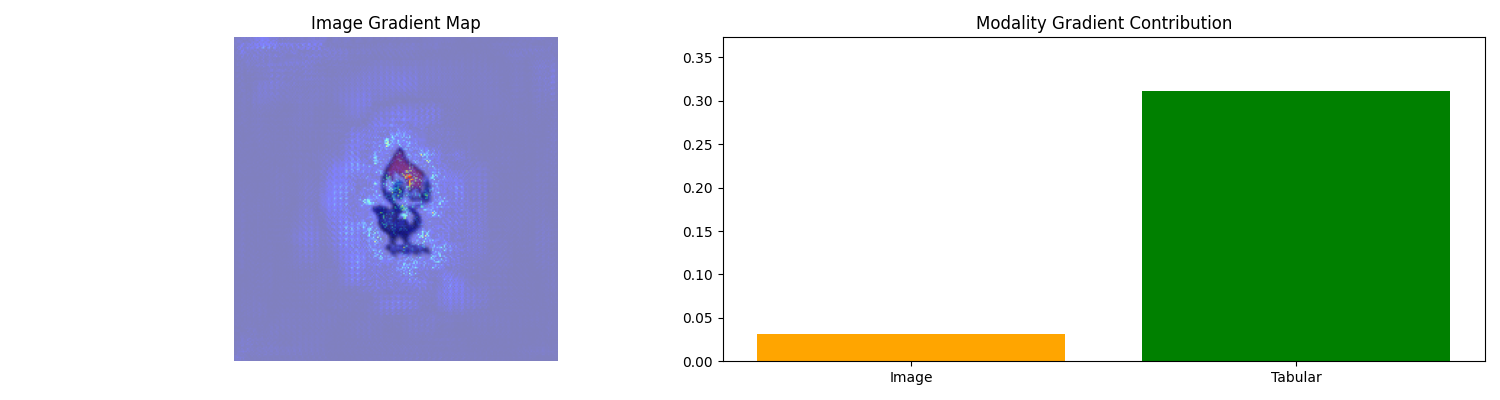
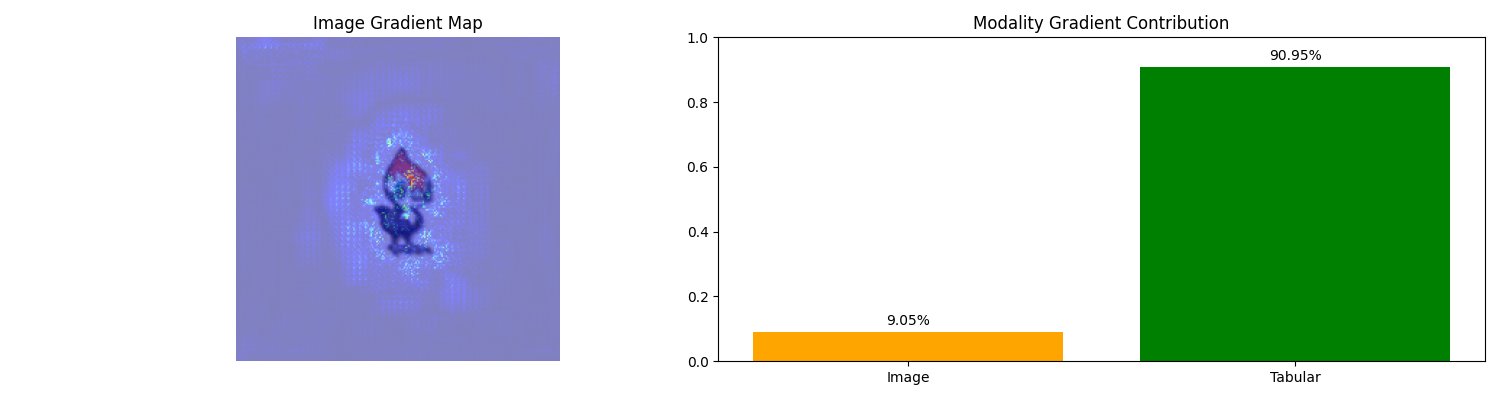
hue shift per thing quick

diff --git a/hue_shift_analysis.py b/hue_shift_analysis.py
@@ -252,16 +252,74 @@ def plot_hue_shift_results(results, plot_grayscal_acc=False):
     
     plt.tight_layout()
     plt.savefig(f'hue_shift_analysis_grayscale_{plot_grayscal_acc}.png', dpi=300, bbox_inches='tight')
+
+from data import deencode_types
+
+def show_prediction_under_hue_shift(df, sample_idx=0, hue_shift_deg=120, device=None):
+    """
+    Show prediction for a single Pokémon before and after hue shift.
+    Useful for checking if color changes prediction (e.g. Bulbasaur turns Fire).
+    """
+    if device is None:
+        device = get_device()
     
+    # Load model
+    cnn, classifier = load_model(path=MODEL_PATH, device=device)
+    cnn.eval()
+    classifier.eval()
+
+    # Load transforms
+    original_transform = hue_shift_transform(0)
+    shifted_transform = hue_shift_transform(hue_shift_deg)
+    
+    # Get images and labels
+    original_img, original_stats, original_label = get_sample_by_idx(df, sample_idx, original_transform)
+    shifted_img, shifted_stats, shifted_label = get_sample_by_idx(df, sample_idx, shifted_transform)
+
+    # Prepare images for display
+    def denorm(tensor_img):
+        mean = torch.tensor([0.485, 0.456, 0.406]).view(3,1,1)
+        std = torch.tensor([0.229, 0.224, 0.225]).view(3,1,1)
+        return torch.clamp(tensor_img * std + mean, 0, 1)
+
+    def predict(img_tensor):
+        img = img_tensor.unsqueeze(0).to(device)
+        with torch.no_grad():
+            logits = classifier(cnn(img))
+            probs = torch.sigmoid(logits)
+            pred = (probs > 0.5).float().squeeze(0).cpu()
+        return [deencode_types()[i] for i in pred.nonzero(as_tuple=True)[0].tolist()]
+
+    # Get predicted types
+    orig_pred = predict(original_img)
+    shift_pred = predict(shifted_img)
+
+    # Visualization
+    fig, axs = plt.subplots(1, 2, figsize=(8, 4))
+
+    axs[0].imshow(denorm(original_img).permute(1, 2, 0).cpu())
+    axs[0].axis('off')
+    axs[0].set_title(f"Original\nPredicted: {', '.join(orig_pred)}")
+
+    axs[1].imshow(denorm(shifted_img).permute(1, 2, 0).cpu())
+    axs[1].axis('off')
+    axs[1].set_title(f"Hue {hue_shift_deg}°\nPredicted: {', '.join(shift_pred)}")
+
+    plt.tight_layout()
+    plt.savefig("hue_shift_single_example.png")
+    plt.show()
+
+from data import create_or_load_dataframe, tab_preprocess
 if __name__ == "__main__":
-    # df = create_or_load_dataframe()
-    # df = tab_preprocess(df)
+    df = create_or_load_dataframe()
+    df = tab_preprocess(df)
     # save_hue_shift_examples(df)
 
-    results = analyze_hue_dependency()
-    
-    plot_hue_shift_results(results, plot_grayscal_acc=True)
-    plot_hue_shift_results(results, plot_grayscal_acc=False)
+    #results = analyze_hue_dependency()
+    # Blue → red
+    show_prediction_under_hue_shift(df, sample_idx=3, hue_shift_deg=120)
+    #plot_hue_shift_results(results, plot_grayscal_acc=True)
+    #plot_hue_shift_results(results, plot_grayscal_acc=False)
     
 
 
@@ -286,3 +344,7 @@ hue_shift_300   0.2599       55.0
 hue_shift_330   0.4432       23.3        
 hue_shift_360   0.5800       -0.4     
 """
+
+
+
+

diff --git a/vistest.py b/vistest.py
@@ -45,6 +45,14 @@ def visualize_sample(cnn, tab_net, classifier, image, tabular, label_names, true
     #img gradient map
     image_grad = image.grad.squeeze().abs().cpu().mean(dim=0).numpy()
     img_importance = np.mean(image_grad)
+
+
+    #normalize
+    total_importance = img_importance + tab_importance
+    img_contrib = img_importance / total_importance
+    tab_contrib = tab_importance / total_importance
+
+
     heatmap = (image_grad - image_grad.min()) / (image_grad.max() - image_grad.min() + 1e-8)
 
     from data import image_unpreprocess
@@ -59,9 +67,11 @@ def visualize_sample(cnn, tab_net, classifier, image, tabular, label_names, true
     axs[0].set_title("Image Gradient Map")
     axs[0].axis("off")
 
-    axs[1].bar(["Image", "Tabular"], [img_importance, tab_importance], color=['orange', 'green'])
+    axs[1].bar(["Image", "Tabular"], [img_contrib, tab_contrib], color=['orange', 'green'])
     axs[1].set_title("Modality Gradient Contribution")
-    axs[1].set_ylim(0, max(img_importance, tab_importance) * 1.2)
+    axs[1].set_ylim(0, 1.0)
+    axs[1].text(0, img_contrib + 0.02, f"{img_contrib:.2%}", ha='center')
+    axs[1].text(1, tab_contrib + 0.02, f"{tab_contrib:.2%}", ha='center')
 
     plt.tight_layout()
     plt.savefig("test_visualization.png")
